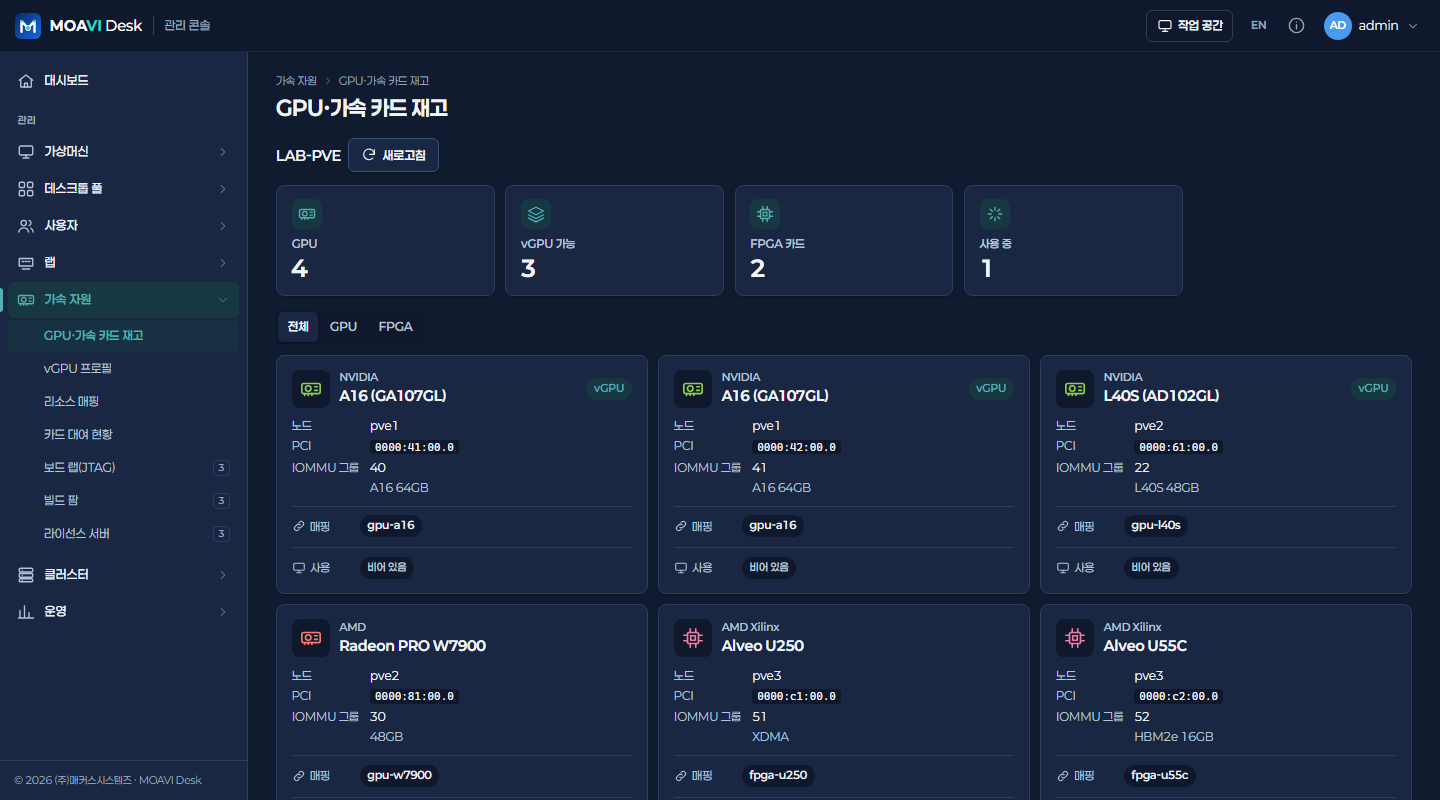
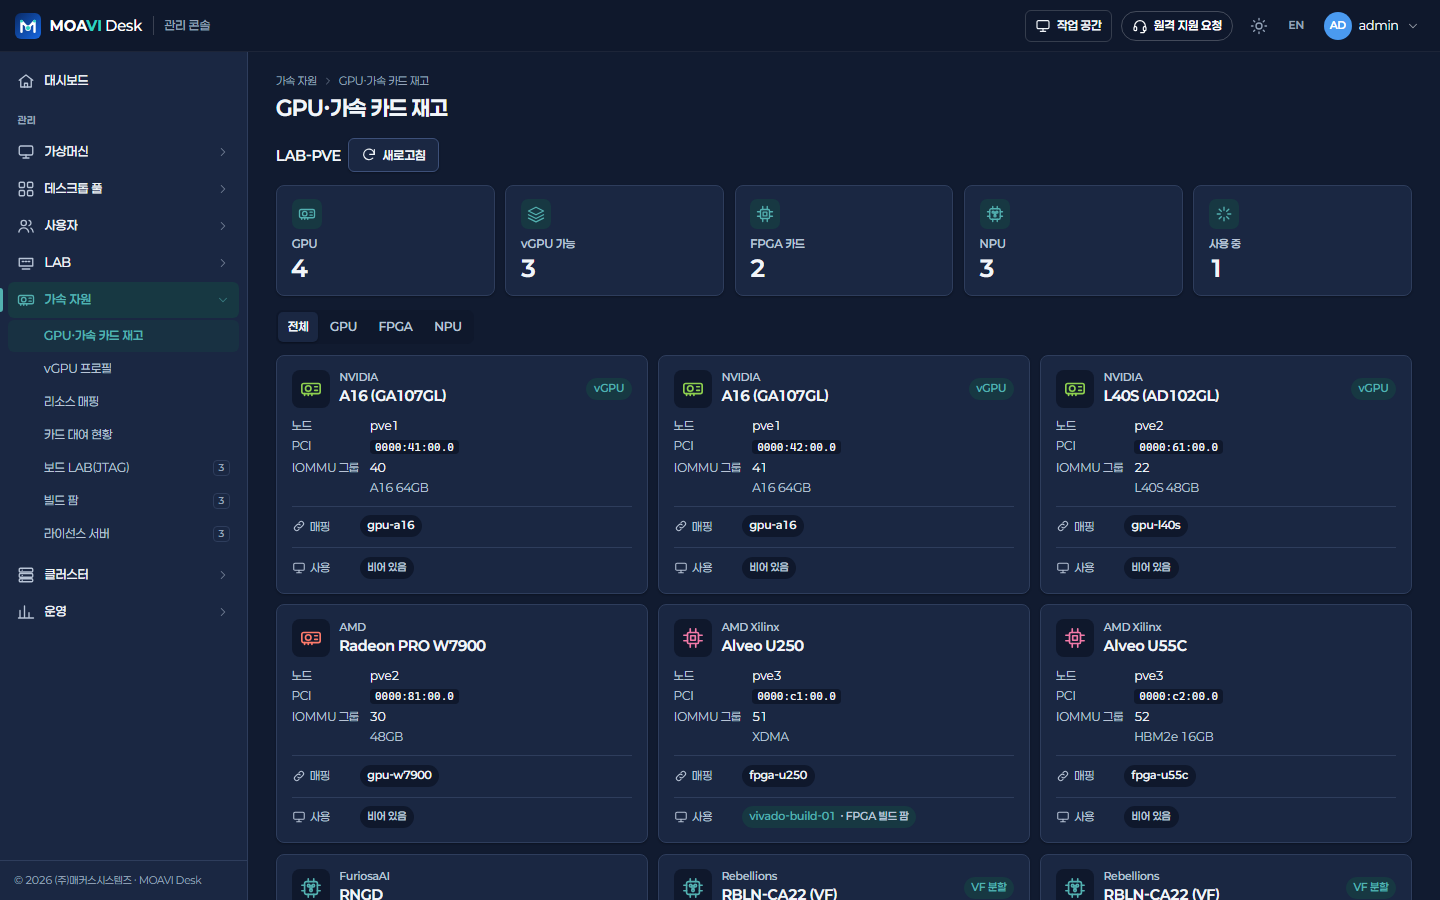
README: screenshots of the current console, features brought up to date
New captures (1440 x 900, dark) of every screen in the README, with alerts,
the operations report and platform settings added; the feature table names
NPUs, right-sizing, alerts, the PDF report and the settings tabs.

diff --git a/README.md b/README.md
@@ -1,5 +1,5 @@
 <p align="center">
-  <img src="docs/images/portal.png" alt="MOAVI Desk 작업 공간" width="900">
+  <img src="docs/images/admin-dashboard.png" alt="MOAVI Desk 관리 콘솔 대시보드" width="900">
 </p>
 
 <h1 align="center">MOAVI Desk 콘솔</h1>
@@ -20,7 +20,7 @@
 
 ### 사용자 작업 공간 (`/`)
 배정된 데스크톱을 한 화면에서 보고 바로 접속합니다. 즐겨찾기, 켜져 있는 것만 보기, 검색, 브라우저 접속(noVNC)과 SPICE 접속을 지원하고,
-GPU·vGPU·FPGA 카드가 붙은 데스크톱은 카드에 표시됩니다.
+GPU·vGPU·FPGA·NPU 카드가 붙은 데스크톱은 카드에 표시됩니다. 상단의 **원격 지원 요청**으로 매커스시스템즈 지원 페이지를 엽니다.
 
 ![작업 공간](docs/images/portal.png)
 
@@ -28,31 +28,34 @@ GPU·vGPU·FPGA 카드가 붙은 데스크톱은 카드에 표시됩니다.
 
 | | |
 |---|---|
-| **대시보드** — 숫자 요약과 인프라 모니터링: 상태 점수, CPU·메모리·VM·접속 추이(24시간·7일·30일), 노드별 CPU, 노드·스토리지, 활성 경보 | **데스크톱(VM) 관리** — 사용량, 전원(한 대씩·여러 대 한 번에) |
+| **대시보드** — 한 화면에 상태 점수, CPU·메모리·VM·접속 추이(24시간·7일·30일), 노드별 CPU, 활성 경보, 자원 제안(증설·회수), 노드·스토리지 | **데스크톱(VM) 관리** — 사용량, 전원(한 대씩·여러 대 한 번에) |
 | ![대시보드](docs/images/admin-dashboard.png) | ![데스크톱 VM](docs/images/desktop-vms.png) |
-| **GPU·가속 카드 재고** — NVIDIA·AMD·Intel GPU, vGPU 가능 여부, FPGA 카드, 리소스 매핑, 사용 중인 VM | **카드 대여 현황** — GPU·FPGA 카드를 데스크톱에 기간을 정해 빌려주기, 연장·반납·자동 반납 |
+| **GPU·가속 카드 재고** — NVIDIA·AMD·Intel GPU, vGPU 가능 여부, FPGA 카드, 국산 NPU(FuriosaAI·Rebellions·DEEPX 등), 리소스 매핑 | **카드 대여 현황** — GPU·FPGA·NPU 카드를 기간을 정해 빌려주기, 연장·반납·자동 반납 |
 | ![가속 자원](docs/images/accel-inventory.png) | ![카드 대여](docs/images/card-loans.png) |
+| **경보** — 발생 중인 경보 확인·음소거, 경보 규칙, 알림 채널(메일·웹훅 등) | **운영 보고서 (PDF)** — 기간별 요약, 추이, 자원 제안, 풀별 사용, 스토리지, 경보를 A4 한 장으로 |
+| ![경보](docs/images/alerts.png) | ![운영 보고서](docs/images/report.png) |
 | **사용률 보고서** — 7·30·90일, 일별 접속 시간, 풀별 사용률, 많이 쓴 사용자, CSV | **템플릿 관리** — 디스크·링크 클론 가능 여부·사용 풀, 여기서 풀에 클론 |
 | ![사용률 보고서](docs/images/usage-report.png) | ![템플릿](docs/images/templates.png) |
-| **백업 (PBS)** — 백업 저장소·PBS 서버, 풀 단위 예약 백업, 데스크톱별 지금 백업·복원·삭제 | **화이트라벨** — 제품 이름·문구·로고·파비콘·대표 색·링크, 미리보기 |
-| ![백업](docs/images/backup.png) | ![화이트라벨](docs/images/branding.png) |
-
-### 로그인
-![로그인](docs/images/login.png)
+| **백업 (PBS)** — 백업 저장소·PBS 서버, 풀 단위 예약 백업, 데스크톱별 지금 백업·복원·삭제 | **플랫폼 설정** — 일반(로그인·비밀번호·감사·메일), 도메인(AD/LDAP), 화이트라벨을 탭으로 |
+| ![백업](docs/images/backup.png) | ![플랫폼 설정](docs/images/settings.png) |
+| **화이트라벨** (플랫폼 설정 탭) — 제품 이름·문구·로고·파비콘·대표 색·링크, 브라우저 탭·상단 바·로그인 미리 보기 | **로그인** — 회사 표기, 원격 지원 요청 링크 |
+| ![화이트라벨](docs/images/branding.png) | ![로그인](docs/images/login.png) |
 
 ## 기능 한눈에
 
 | 모듈 | 화면 |
 |---|---|
-| 가상머신 | 데스크톱(VM) 관리, 템플릿 관리 · *(예정)* 골든 이미지, 백업 |
-| 데스크톱 풀 | 풀 관리(전용·초기화·공유·일정형·빌드 팜), 템플릿 일괄 복제, 할당, 초기화, 풀 GPU 정책, 데스크톱 상태 |
-| 사용자 | 사용자 목록, 도메인(AD/LDAP) 설정·시험, 유효 권한 조회 |
-| 랩 | *(예정)* 랩(공용 공간)·단말, 사용 일정(교육·교대 근무·예약), 일정형 풀 |
-| 가속 자원 | GPU·가속 카드 재고, vGPU 프로필, 리소스 매핑, 카드 대여 현황 · *(예정)* 보드 랩(JTAG), 빌드 팜, 라이선스 서버 |
+| 대시보드 | 인프라 모니터링(상태 점수·추이·경보), 자원 제안(증설·회수·유휴) |
+| 가상머신 | 데스크톱(VM) 관리, 템플릿 관리 · *(예정)* 골든 이미지 |
+| 데스크톱 풀 | 풀 관리(전용·초기화·공유·일정형·빌드 팜), 템플릿 일괄 복제, 할당, 초기화, 풀 정책, 풀 GPU 정책, 데스크톱 상태 |
+| 사용자 | 사용자 목록, 유효 권한 조회 |
+| LAB | *(예정)* LAB(공용 공간)·단말, 사용 일정(교육·교대 근무·예약), 일정형 풀 |
+| 가속 자원 | GPU·가속 카드 재고(GPU·FPGA·NPU), vGPU 프로필, 리소스 매핑, 카드 대여 현황 · *(예정)* 보드 LAB(JTAG), 빌드 팜, 라이선스 서버 |
 | 클러스터 | 개요, 노드, 스토리지, 클러스터 연결 |
-| 운영 | 시스템 요약, 접속 기록, 사용률 보고서, 작업 기록(감사), 플랫폼 설정(로그인·비밀번호·감사 보관·폐쇄망·메일) |
+| 운영 | 시스템 요약, 접속 기록, 사용률 보고서, 운영 보고서(PDF), 경보, 백업(PBS), 작업 기록(감사), 플랫폼 설정(일반·도메인·화이트라벨) |
 
-화면은 한국어·영어, 밝은·어두운 모드를 지원합니다.
+화면은 한국어·영어, 다크·라이트 테마(사용자 메뉴에서 시스템·라이트·다크)를 지원하고, 1920×1080부터 휴대폰 폭까지 창 크기에 맞춰 배치가 바뀝니다.
+버전과 라이선스는 오른쪽 위 사용자 메뉴의 **정보**에서 봅니다.
 
 ## 실행
 
